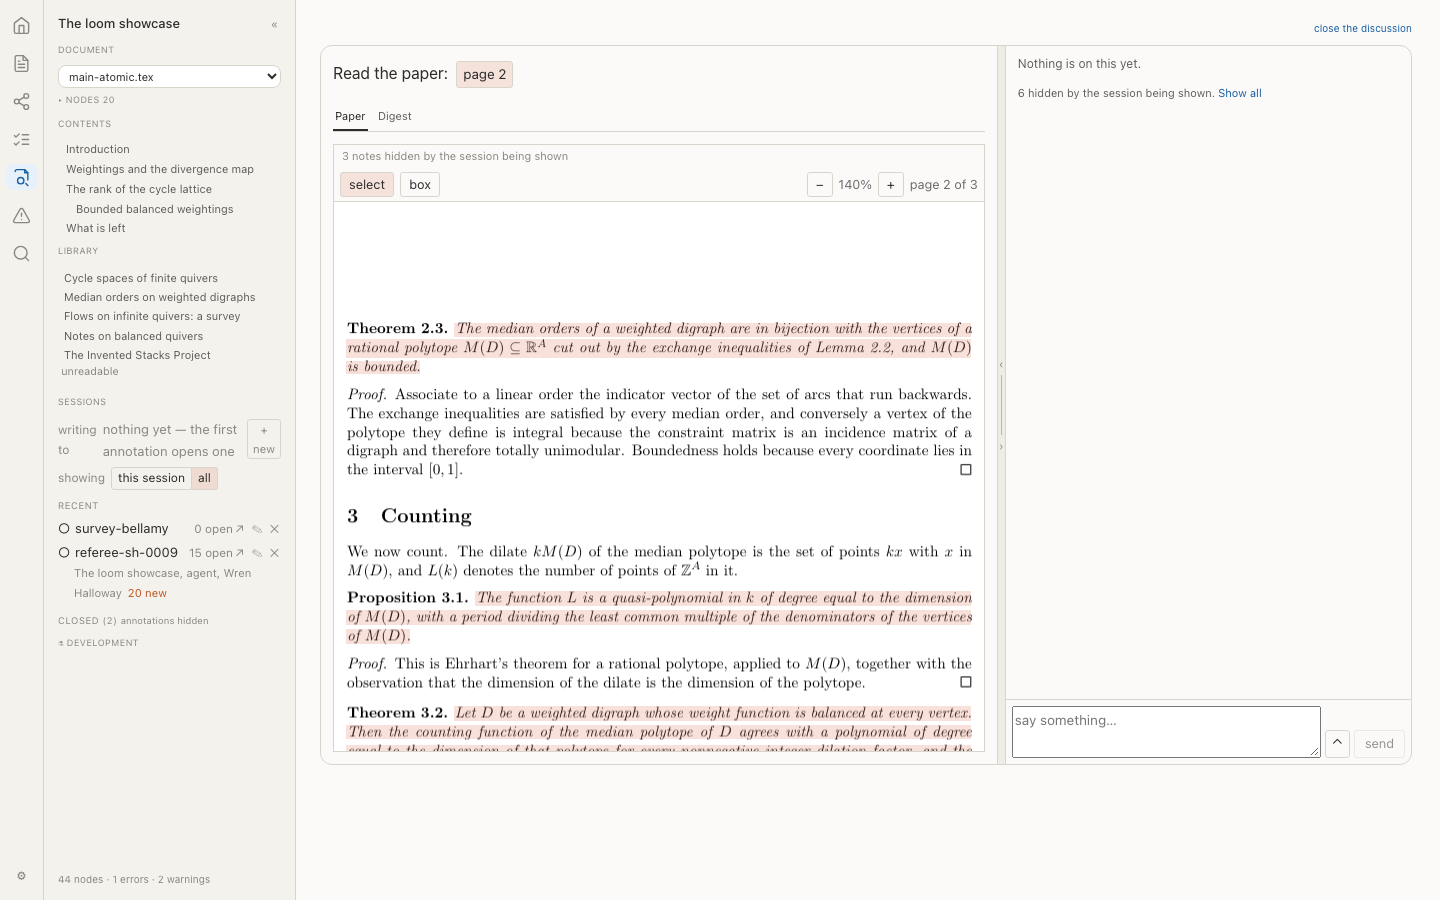
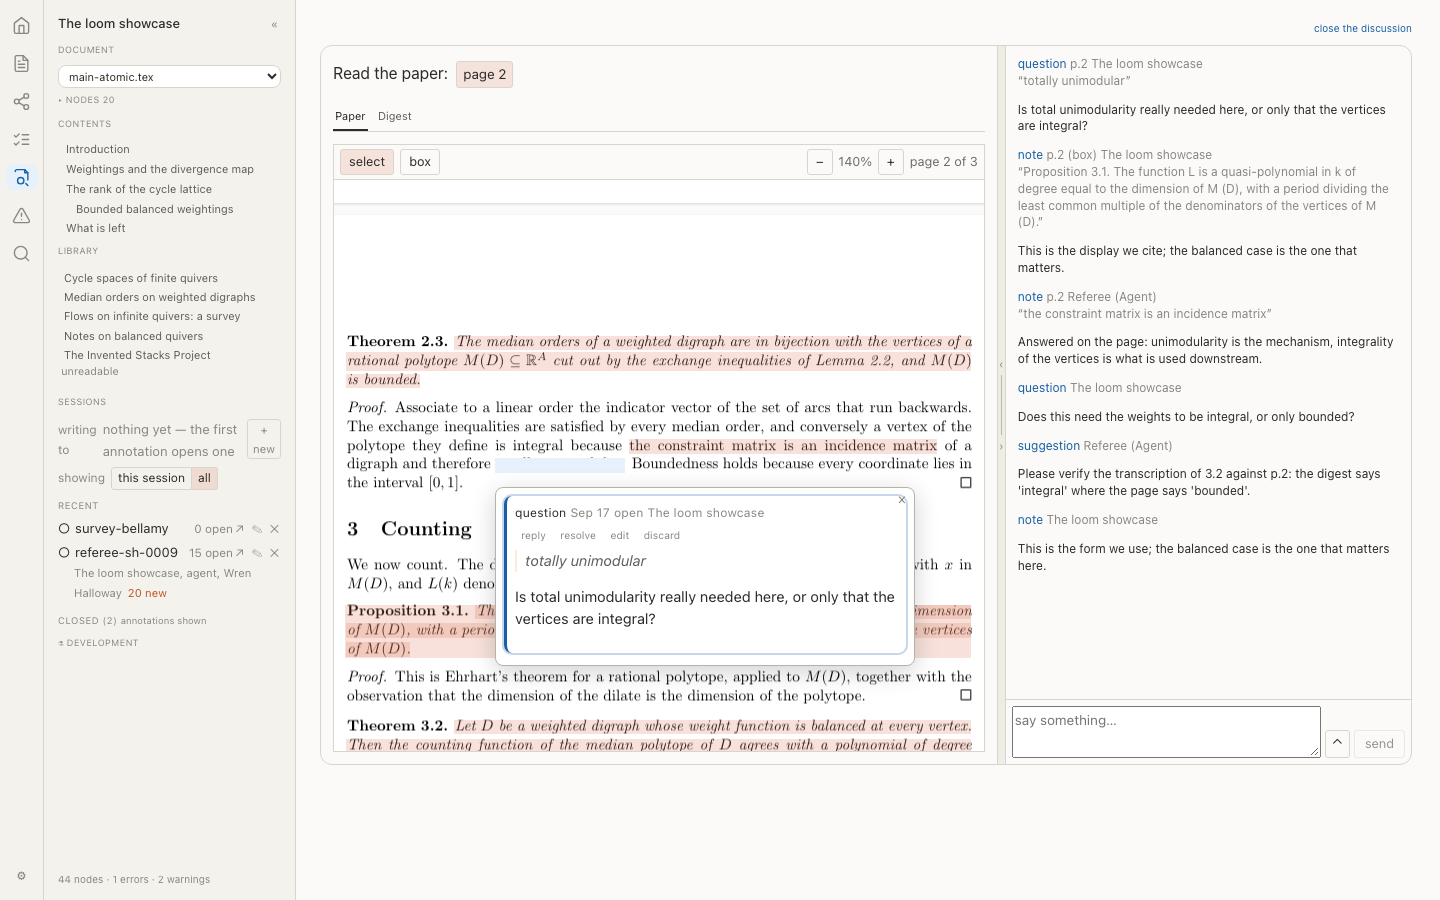
Show the report's figures, and retake the two that were the same picture
The figures were cited by filename, as 0.12's report cites its own, so
none of them rendered. §18 asks for the screenshots shown with their text
cartoons beside them "so the report survives a moved image", which only
means anything if the image is there; they are embedded now, twelve of
them, and every path resolves.

Two were the same file under two captions. The floating-placement shot
was taken after a click that had hit nothing — the showcase's page notes
belong to a closed session, whose annotations are hidden until asked for,
so there was no mark to open — and the session-selector shot never left
the permalink page. Both retaken with the state they claim to show, and
all four checksums now differ. Embedding them unchecked would have put
one picture under two captions.

diff --git a/docs/reports/0.13-reading-layer.md b/docs/reports/0.13-reading-layer.md
@@ -97,9 +97,11 @@ Worth recording, because a fault log reads as though nothing worked.
 
 ## 5. Figures
 
-Screenshots of what was built, in `docs/reports/0.13-reading-layer/`. The design mockups in `docs/long-prompts/images/` are drawings of what was intended and are not overwritten.
+Screenshots of what was built, in `docs/reports/0.13-reading-layer/`, each with a text cartoon beside it so the report survives a moved image. The design mockups in `docs/long-prompts/images/` are drawings of what was *intended* and are not overwritten.
 
-**`fig-split-view.png`** — the reading pane on the showcase's filed paper, page 2, with notes drawn on it and the discussion beside.
+### The split view
+
+![The reading pane on a filed paper: the page left with its notes marked, the discussion right](0.13-reading-layer/fig-split-view.png)
 
 ```
 ┌──┬──────────┬────────────────────────────┬─┬────────────────────────┐
@@ -108,21 +110,89 @@ Screenshots of what was built, in `docs/reports/0.13-reading-layer/`. The design
 │  │ ▾ Sessns │  │ …totally unimodular▮ │■│ │ note p.2 (box) …       │
 │  │          │  │ ▭ display formula    │ │◄│ [ say something… ][send]│
 └──┴──────────┴────────────────────────────┴─┴────────────────────────┘
+   rail  panel          content          divider      discussion
 ```
 
-**`fig-side-panel.png`** — Documents, Nodes (open, with its filter), Contents, Library, Sessions, the `⚗` shelf, and the collapse control in the head.
+### The side panel
 
-**`fig-session-selector.png`** and **`fig-session-permalink.png`** — what is being written to against what is being shown, the rename and remove verbs, and a session read back whole at `/session/<id>`.
+![Documents, Nodes with its filter open, Contents, Library, Sessions and the development shelf](0.13-reading-layer/fig-side-panel.png)
 
-**`fig-placement-floating.png`**, **`fig-placement-margin.png`**, **`fig-placement-inline.png`** — the three placements: a box over the page at its mark, the column beside it, and inline in the flow on a node page, which is the Authoring View's alone.
+```
+▾ Documents        ▾ Nodes  44        ▾ Contents      ▾ Library
+   main.tex           [narrow by id]     1 Quivers       Bellamy 19
+   CANON              sh-0001 Convention 2 Counting      Arden 24
+   paper-v2.tex       sh-0002 Definition …              Stacks · unreadable
+                      …                               ⚗ development
+```
 
-**`fig-proposal-box.png`** — a proposal as the page beside its rendering.
+### The session selector, and a session read back whole
 
-**The delete confirmation is not photographed.** It is `globalThis.confirm`, a browser dialog outside the page, so the figure shows the row and its `✕` instead. Worth knowing when you next look at that flow: the confirmation is the browser's, not loom's, and it cannot be styled, screenshotted, or tested from the page.
+![What is being written to against what is being shown, with the rename and remove verbs](0.13-reading-layer/fig-session-selector.png)
 
-**From the study**, kept because they show faults rather than features: `i1-fault-no-way-in.png` (a filed paper with no way in), `i1-busy-dispatch.png` (the composer saying nobody is attached while the agent works), `i1-box-updates-in-place.png` (the box showing its own write, after the fix), `i3-scan-annotated.png` (a 1984 scan anchored by text).
+![A session's permalink: every annotation filed in it, oldest first](0.13-reading-layer/fig-session-permalink.png)
 
----
+```
+▾ Sessions                          /session/s-2026-09-17-0002
+   writing to  reading Bellamy 19     reading Bellamy 19
+   showing  [this session| all ]      s-… · closed · round 1
+   RECENT                             ──────────────────────
+   ○ survey-bellamy  0 open  ↗ ✎ ✕    note   p.2   a-…-0005
+                                      question p.2 a-…-0006
+```
+
+The **delete confirmation is not photographed**: it is `globalThis.confirm`, a browser dialog outside the page, so the figure shows the row and its `✕` instead. Worth knowing when you next look at that flow — the confirmation is the browser's, not loom's, and it cannot be styled, screenshotted or tested from the page.
+
+### The three placements
+
+![A box floating over the page at its mark](0.13-reading-layer/fig-placement-floating.png)
+
+![The margin column beside the page](0.13-reading-layer/fig-placement-margin.png)
+
+![A box inline in the flow of a node page](0.13-reading-layer/fig-placement-inline.png)
+
+```
+floating                    margin                     inline (authoring)
+┌──────────────┐            ┌────────┐ ┌──────┐        ┌──────────────┐
+│ page ▮▮▮  ┌──┴──┐         │ page ▮ │ │QUEST…│        │ text ▮▮▮     │
+│ page      │ ?   │         │ page   │ └──────┘        │ ┌──────────┐ │
+│ page      └──┬──┘         │ page ▮ │ ┌──────┐        │ │ QUESTION │ │
+└──────────────┘  4px→│     └────────┘ │NOTE… │        │ └──────────┘ │
+```
+
+`inline` is the Authoring View's alone: a PDF page cannot reflow, so it opens floating there.
+
+### The proposal box
+
+![A proposal as the page beside its rendering](0.13-reading-layer/fig-proposal-box.png)
+
+```
+┌───────────────────────┬───────────────────────┐
+│ the page at the anchor│ the rendering proposed │
+│ ▮▮ quotation marked   │ \begin{proposition}…   │
+├───────────────────────┴───────────────────────┤
+│ ▸ the page's own text                          │
+└───────────────────────────────────────────────┘
+```
+
+### From the study
+
+Kept because they show faults rather than features.
+
+![A filed paper with no way into the reader: links out to the raw PDF and nothing else](0.13-reading-layer/i1-fault-no-way-in.png)
+
+*F2, before the fix: the work's own page offered no way to open it in loom.*
+
+![The composer reporting that nobody is attached while the agent is working](0.13-reading-layer/i1-busy-dispatch.png)
+
+*F7: "nobody is attached — it waits in the inbox. Start one with: loom session watch …", said while the agent it names is mid-task.*
+
+![A box over the page showing the resolve it just fired](0.13-reading-layer/i1-box-updates-in-place.png)
+
+*F3, after the fix: the box says `resolved` and offers `undo resolve`, without being closed and reopened.*
+
+![A 1984 scan anchored by text](0.13-reading-layer/i3-scan-annotated.png)
+
+*Iteration 3: Atiyah–Bott 1984, no source anywhere, anchored by text on page 5.*
 
 ## 6. Performance
 
